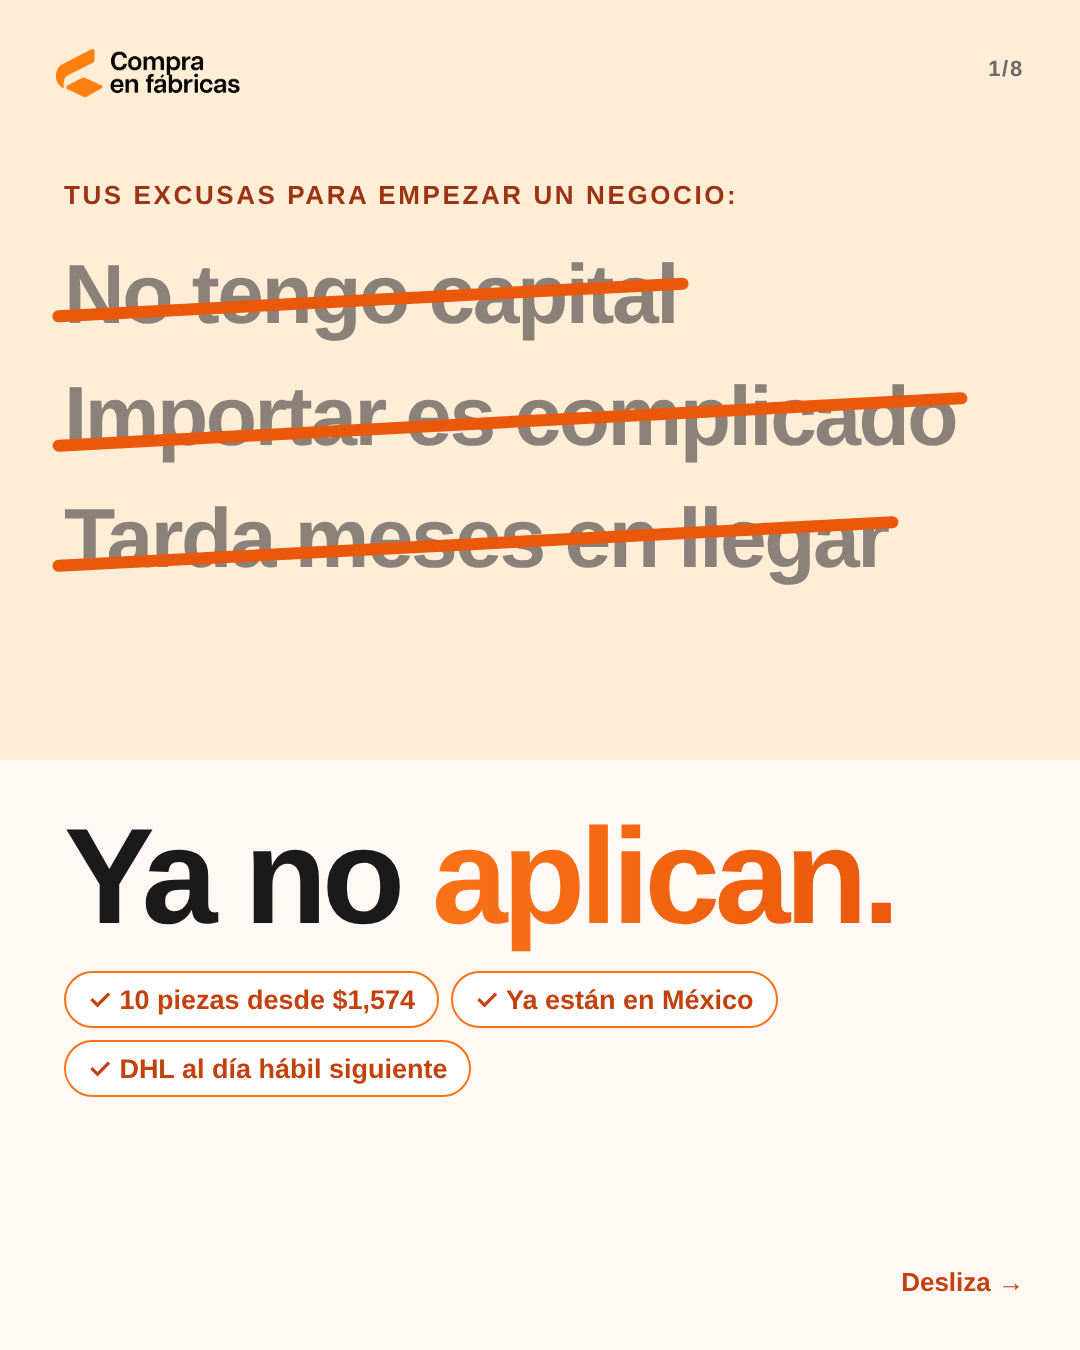
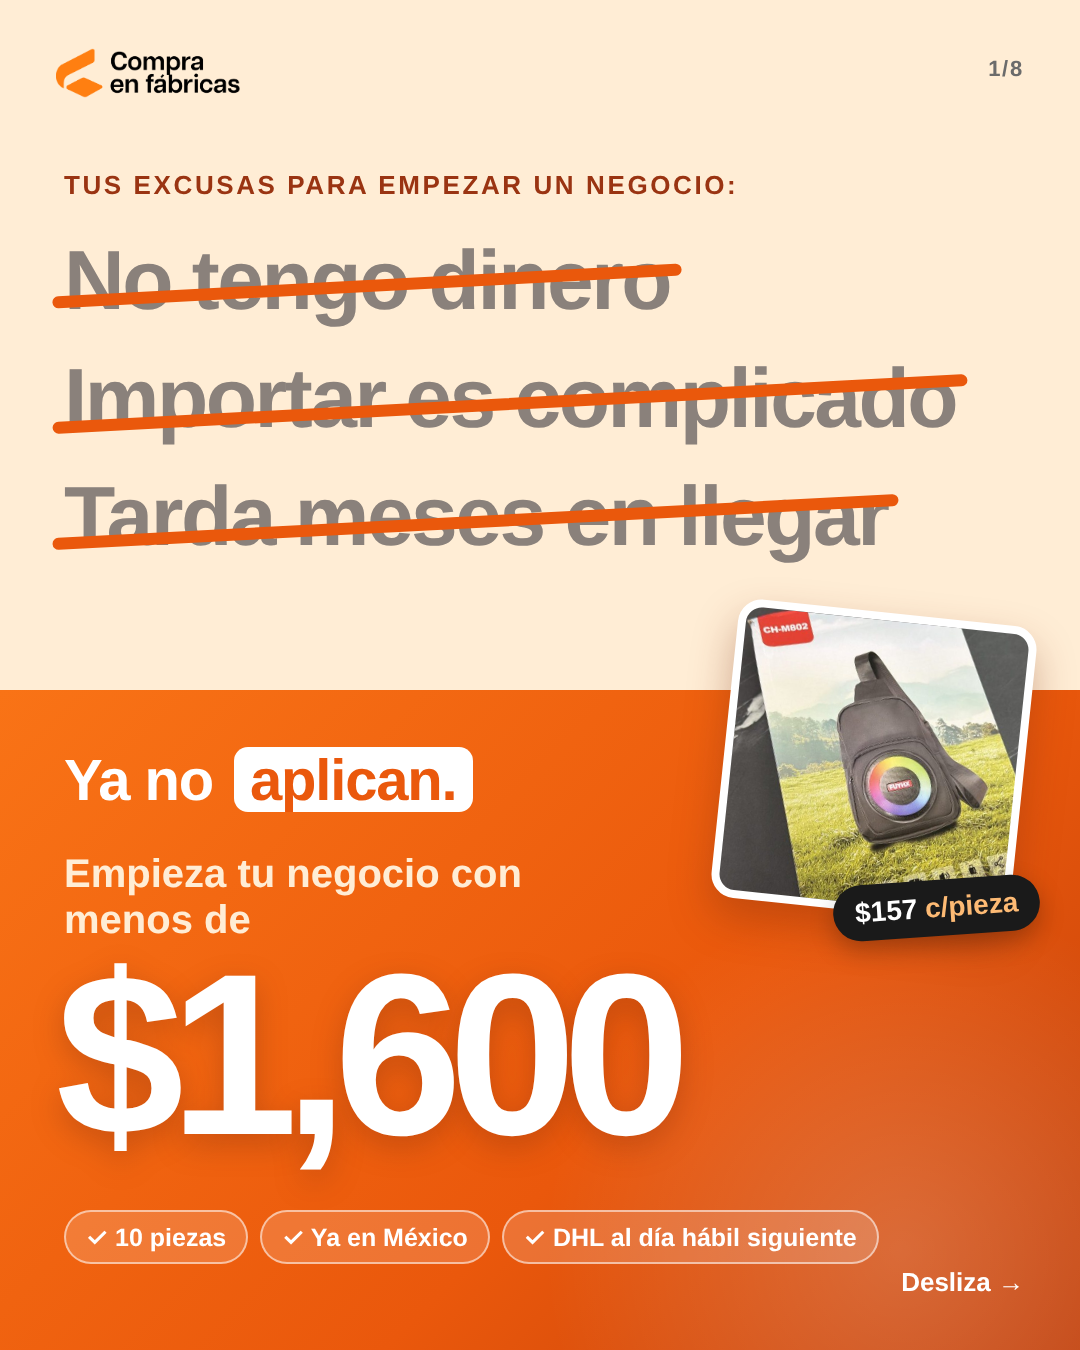
Carrusel: portada B con 'No tengo dinero' y bloque 'Empieza tu negocio con menos de $1,600'
Claude-Session: https://claude.ai/code/session_01CXaftFPXBN4xcjAX2hR1xo

diff --git a/contenido/creativos-cajas-disponibles/_K-01e-portada-excusas-primero.html b/contenido/creativos-cajas-disponibles/_K-01e-portada-excusas-primero.html
@@ -23,15 +23,33 @@ html,body{width:1080px;height:1350px}
 .swipe{position:absolute;right:56px;bottom:52px;font-size:26px;font-weight:700;color:var(--n7)}
 .eyebrow{font-size:24px;font-weight:700;letter-spacing:.08em;color:var(--n7);text-transform:uppercase}
 
-.top{position:absolute;left:0;right:0;top:0;height:760px;background:var(--durazno)}
+.top{position:absolute;left:0;right:0;top:0;height:690px;background:var(--durazno)}
 .lg{z-index:2}.num{z-index:2}
-.lab{position:absolute;left:64px;top:180px;font-size:26px;font-weight:700;letter-spacing:.1em;color:var(--n9)}
-.xs{position:absolute;left:64px;right:64px;top:250px;display:flex;flex-direction:column;gap:34px}
+.lab{position:absolute;left:64px;top:170px;font-size:26px;font-weight:700;letter-spacing:.1em;color:var(--n9)}
+.xs{position:absolute;left:64px;right:64px;top:236px;display:flex;flex-direction:column;gap:30px}
 .x{align-self:flex-start;font-size:84px;font-weight:900;letter-spacing:-.03em;color:#8A817B;position:relative;line-height:1.05}
 .x::after{content:"";position:absolute;left:-12px;right:-12px;top:50%;height:12px;border-radius:6px;background:var(--n6);transform:rotate(-3deg)}
-.bot{position:absolute;left:64px;right:64px;top:810px}
-.bot h1{font-size:136px;letter-spacing:-.04em;line-height:.98}
-.oks{display:flex;flex-wrap:wrap;gap:12px;margin-top:28px}
-.oks span{background:#fff;border:2px solid var(--n);color:var(--n7);font-weight:700;font-size:27px;border-radius:999px;padding:10px 22px}
-</style></head><body><div class='num'>1/8</div><img class='lg' src='fotos/logo-horizontal.png'><div class='swipe'>Desliza →</div><div class='top'></div><div class='lab'>TUS EXCUSAS PARA EMPEZAR UN NEGOCIO:</div><div class='xs'><div class='x'>No tengo capital</div><div class='x'>Importar es complicado</div><div class='x'>Tarda meses en llegar</div></div>
-<div class='bot'><h1>Ya no <span class='grad'>aplican.</span></h1><div class='oks'><span>✓ 10 piezas desde $1,574</span><span>✓ Ya están en México</span><span>✓ DHL al día hábil siguiente</span></div></div></body></html>
+.band{position:absolute;left:0;right:0;top:690px;bottom:0;background:linear-gradient(135deg,#F97316 0%,#EA580C 60%,#C2410C 100%);overflow:hidden}
+.band::before{content:"";position:absolute;right:-180px;bottom:-260px;width:720px;height:720px;border-radius:50%;
+background:radial-gradient(circle,rgba(255,255,255,.18),rgba(255,255,255,0) 70%)}
+.ya{position:absolute;left:64px;top:56px;font-size:58px;font-weight:900;color:#fff;letter-spacing:-.02em}
+.ya span{background:#fff;color:var(--n6);border-radius:14px;padding:0 16px;margin-left:6px}
+.em{position:absolute;left:64px;top:160px;font-size:40px;font-weight:700;color:#FFEDD5;line-height:1.15;width:560px}
+.big{position:absolute;left:56px;top:250px;font-size:230px;font-weight:900;letter-spacing:-.06em;color:#fff;line-height:1;
+text-shadow:0 10px 30px rgba(124,45,18,.35)}
+.big small{font-size:60px;letter-spacing:-.02em;margin-left:10px;vertical-align:40%;font-weight:900}
+.facts{position:absolute;left:64px;top:520px;display:flex;gap:12px}
+.facts span{background:rgba(255,255,255,.16);border:2px solid rgba(255,255,255,.55);color:#fff;font-weight:700;font-size:25px;border-radius:999px;padding:10px 20px}
+.pic{position:absolute;right:56px;top:612px;width:300px;height:300px;border-radius:24px;border:8px solid #fff;
+background-size:cover;background-position:center;transform:rotate(6deg);box-shadow:0 20px 40px rgba(124,45,18,.35);z-index:3}
+.st{position:absolute;right:40px;top:880px;background:#1A1A1A;color:#fff;border-radius:999px;padding:12px 22px;font-size:28px;font-weight:900;
+transform:rotate(-4deg);z-index:4;box-shadow:0 10px 24px rgba(0,0,0,.25)}
+.st b{color:#FDBA74}
+.swipe{color:#fff!important;z-index:5}
+</style></head><body><div class='num'>1/8</div><img class='lg' src='fotos/logo-horizontal.png'><div class='swipe'>Desliza →</div><div class='top'></div><div class='lab'>TUS EXCUSAS PARA EMPEZAR UN NEGOCIO:</div><div class='xs'><div class='x'>No tengo dinero</div><div class='x'>Importar es complicado</div><div class='x'>Tarda meses en llegar</div></div>
+<div class='band'><div class='ya'>Ya no <span>aplican.</span></div>
+<div class='em'>Empieza tu negocio con menos de</div>
+<div class='big'>$1,600</div>
+<div class='facts'><span>✓ 10 piezas</span><span>✓ Ya en México</span><span>✓ DHL al día hábil siguiente</span></div></div>
+<div class='photo pic' style="background-image:url('fotos/CF-022.jpg')"></div>
+<div class='st'>$157 <b>c/pieza</b></div></body></html>

diff --git a/contenido/creativos-cajas-disponibles/_K-01f-portada-marcador.html b/contenido/creativos-cajas-disponibles/_K-01f-portada-marcador.html
@@ -31,4 +31,4 @@ html,body{width:1080px;height:1350px}
 .sc{position:absolute;left:-14px;right:-14px;top:22%;width:calc(100% + 28px);height:60%}
 .tag{margin:14px 0 0 120px;background:var(--grad);color:#fff;font-weight:900;font-size:34px;padding:12px 24px;border-radius:12px;
 box-shadow:0 8px 24px rgba(234,88,12,.28)}
-</style></head><body><div class='num'>1/8</div><img class='lg' src='fotos/logo-horizontal.png'><div class='swipe'>Desliza →</div><div class='b'><h1>Ya no tienes <span class='grad'>excusa</span> para empezar tu negocio.</h1></div><div class='list'><div class='r'><div class='x'>“No tengo capital”<svg class='sc' viewBox='0 0 600 60' preserveAspectRatio='none'><path d='M6 38 C 120 18, 240 46, 360 26 S 540 30, 594 20' stroke='#EA580C' stroke-width='14' fill='none' stroke-linecap='round'/><path d='M14 26 C 160 44, 300 14, 440 36 S 560 30, 590 34' stroke='#F97316' stroke-width='9' fill='none' stroke-linecap='round' opacity='.85'/></svg></div><div class='tag' style='transform:rotate(-3deg)'>10 piezas desde $1,574</div></div><div class='r'><div class='x'>“Importar es complicado”<svg class='sc' viewBox='0 0 600 60' preserveAspectRatio='none'><path d='M6 38 C 120 18, 240 46, 360 26 S 540 30, 594 20' stroke='#EA580C' stroke-width='14' fill='none' stroke-linecap='round'/><path d='M14 26 C 160 44, 300 14, 440 36 S 560 30, 590 34' stroke='#F97316' stroke-width='9' fill='none' stroke-linecap='round' opacity='.85'/></svg></div><div class='tag' style='transform:rotate(2.5deg)'>Ya están en México</div></div><div class='r'><div class='x'>“Tarda meses en llegar”<svg class='sc' viewBox='0 0 600 60' preserveAspectRatio='none'><path d='M6 38 C 120 18, 240 46, 360 26 S 540 30, 594 20' stroke='#EA580C' stroke-width='14' fill='none' stroke-linecap='round'/><path d='M14 26 C 160 44, 300 14, 440 36 S 560 30, 590 34' stroke='#F97316' stroke-width='9' fill='none' stroke-linecap='round' opacity='.85'/></svg></div><div class='tag' style='transform:rotate(-2deg)'>DHL al día hábil siguiente</div></div></div></body></html>
+</style></head><body><div class='num'>1/8</div><img class='lg' src='fotos/logo-horizontal.png'><div class='swipe'>Desliza →</div><div class='b'><h1>Ya no tienes <span class='grad'>excusa</span> para empezar tu negocio.</h1></div><div class='list'><div class='r'><div class='x'>“No tengo dinero”<svg class='sc' viewBox='0 0 600 60' preserveAspectRatio='none'><path d='M6 38 C 120 18, 240 46, 360 26 S 540 30, 594 20' stroke='#EA580C' stroke-width='14' fill='none' stroke-linecap='round'/><path d='M14 26 C 160 44, 300 14, 440 36 S 560 30, 590 34' stroke='#F97316' stroke-width='9' fill='none' stroke-linecap='round' opacity='.85'/></svg></div><div class='tag' style='transform:rotate(-3deg)'>10 piezas desde $1,574</div></div><div class='r'><div class='x'>“Importar es complicado”<svg class='sc' viewBox='0 0 600 60' preserveAspectRatio='none'><path d='M6 38 C 120 18, 240 46, 360 26 S 540 30, 594 20' stroke='#EA580C' stroke-width='14' fill='none' stroke-linecap='round'/><path d='M14 26 C 160 44, 300 14, 440 36 S 560 30, 590 34' stroke='#F97316' stroke-width='9' fill='none' stroke-linecap='round' opacity='.85'/></svg></div><div class='tag' style='transform:rotate(2.5deg)'>Ya están en México</div></div><div class='r'><div class='x'>“Tarda meses en llegar”<svg class='sc' viewBox='0 0 600 60' preserveAspectRatio='none'><path d='M6 38 C 120 18, 240 46, 360 26 S 540 30, 594 20' stroke='#EA580C' stroke-width='14' fill='none' stroke-linecap='round'/><path d='M14 26 C 160 44, 300 14, 440 36 S 560 30, 590 34' stroke='#F97316' stroke-width='9' fill='none' stroke-linecap='round' opacity='.85'/></svg></div><div class='tag' style='transform:rotate(-2deg)'>DHL al día hábil siguiente</div></div></div></body></html>

diff --git a/contenido/creativos-cajas-disponibles/_K-01d-portada-minimal.html b/contenido/creativos-cajas-disponibles/_K-01d-portada-minimal.html
@@ -29,4 +29,4 @@ html,body{width:1080px;height:1350px}
 .x{display:inline-block;font-size:76px;font-weight:700;color:#A8A29E;letter-spacing:-.02em;position:relative;line-height:1.05}
 .x::after{content:"";position:absolute;left:-10px;right:-10px;top:52%;height:10px;border-radius:6px;background:var(--grad);transform:rotate(-2deg)}
 .ok{font-size:40px;font-weight:900;color:var(--n7);margin-top:14px}
-</style></head><body><div class='num'>1/8</div><img class='lg' src='fotos/logo-horizontal.png'><div class='swipe'>Desliza →</div><div class='b'><h1>Ya no tienes <span class='grad'>excusa</span> para empezar tu negocio.</h1></div><div class='list'><div class='r'><div class='x'>No tengo capital</div><div class='ok'>✓ 10 piezas desde $1,574</div></div><div class='r'><div class='x'>Importar es complicado</div><div class='ok'>✓ Ya están en México</div></div><div class='r'><div class='x'>Tarda meses en llegar</div><div class='ok'>✓ DHL al día hábil siguiente</div></div></div></body></html>
+</style></head><body><div class='num'>1/8</div><img class='lg' src='fotos/logo-horizontal.png'><div class='swipe'>Desliza →</div><div class='b'><h1>Ya no tienes <span class='grad'>excusa</span> para empezar tu negocio.</h1></div><div class='list'><div class='r'><div class='x'>No tengo dinero</div><div class='ok'>✓ 10 piezas desde $1,574</div></div><div class='r'><div class='x'>Importar es complicado</div><div class='ok'>✓ Ya están en México</div></div><div class='r'><div class='x'>Tarda meses en llegar</div><div class='ok'>✓ DHL al día hábil siguiente</div></div></div></body></html>

diff --git a/contenido/creativos-cajas-disponibles/carrusel.py b/contenido/creativos-cajas-disponibles/carrusel.py
@@ -110,7 +110,7 @@ border-radius:32px;box-shadow:0 16px 40px rgba(26,26,26,.10);display:flex;flex-d
 
 # Portada "excusas tachadas": 3 propuestas de diseño (menos texto que el chat)
 EXC = [
-    ("No tengo capital", "10 piezas desde $1,574"),
+    ("No tengo dinero", "10 piezas desde $1,574"),
     ("Importar es complicado", "Ya están en México"),
     ("Tarda meses en llegar", "DHL al día hábil siguiente"),
 ]
@@ -129,22 +129,41 @@ def exc_minimal():
     return slide(1, body, extra)
 
 def exc_primero():
+    # Arriba las excusas tachadas; abajo un bloque naranja con el remate y el precio de entrada
     xs = "".join(f"<div class='x'>{a}</div>" for a, _ in EXC)
-    oks = "".join(f"<span>✓ {b}</span>" for _, b in EXC)
+    mochila = DATA[0]
     extra = """
-.top{position:absolute;left:0;right:0;top:0;height:760px;background:var(--durazno)}
+.top{position:absolute;left:0;right:0;top:0;height:690px;background:var(--durazno)}
 .lg{z-index:2}.num{z-index:2}
-.lab{position:absolute;left:64px;top:180px;font-size:26px;font-weight:700;letter-spacing:.1em;color:var(--n9)}
-.xs{position:absolute;left:64px;right:64px;top:250px;display:flex;flex-direction:column;gap:34px}
+.lab{position:absolute;left:64px;top:170px;font-size:26px;font-weight:700;letter-spacing:.1em;color:var(--n9)}
+.xs{position:absolute;left:64px;right:64px;top:236px;display:flex;flex-direction:column;gap:30px}
 .x{align-self:flex-start;font-size:84px;font-weight:900;letter-spacing:-.03em;color:#8A817B;position:relative;line-height:1.05}
 .x::after{content:"";position:absolute;left:-12px;right:-12px;top:50%;height:12px;border-radius:6px;background:var(--n6);transform:rotate(-3deg)}
-.bot{position:absolute;left:64px;right:64px;top:810px}
-.bot h1{font-size:136px;letter-spacing:-.04em;line-height:.98}
-.oks{display:flex;flex-wrap:wrap;gap:12px;margin-top:28px}
-.oks span{background:#fff;border:2px solid var(--n);color:var(--n7);font-weight:700;font-size:27px;border-radius:999px;padding:10px 22px}
+.band{position:absolute;left:0;right:0;top:690px;bottom:0;background:linear-gradient(135deg,#F97316 0%,#EA580C 60%,#C2410C 100%);overflow:hidden}
+.band::before{content:"";position:absolute;right:-180px;bottom:-260px;width:720px;height:720px;border-radius:50%;
+background:radial-gradient(circle,rgba(255,255,255,.18),rgba(255,255,255,0) 70%)}
+.ya{position:absolute;left:64px;top:56px;font-size:58px;font-weight:900;color:#fff;letter-spacing:-.02em}
+.ya span{background:#fff;color:var(--n6);border-radius:14px;padding:0 16px;margin-left:6px}
+.em{position:absolute;left:64px;top:160px;font-size:40px;font-weight:700;color:#FFEDD5;line-height:1.15;width:560px}
+.big{position:absolute;left:56px;top:250px;font-size:230px;font-weight:900;letter-spacing:-.06em;color:#fff;line-height:1;
+text-shadow:0 10px 30px rgba(124,45,18,.35)}
+.big small{font-size:60px;letter-spacing:-.02em;margin-left:10px;vertical-align:40%;font-weight:900}
+.facts{position:absolute;left:64px;top:520px;display:flex;gap:12px}
+.facts span{background:rgba(255,255,255,.16);border:2px solid rgba(255,255,255,.55);color:#fff;font-weight:700;font-size:25px;border-radius:999px;padding:10px 20px}
+.pic{position:absolute;right:56px;top:612px;width:300px;height:300px;border-radius:24px;border:8px solid #fff;
+background-size:cover;background-position:center;transform:rotate(6deg);box-shadow:0 20px 40px rgba(124,45,18,.35);z-index:3}
+.st{position:absolute;right:40px;top:880px;background:#1A1A1A;color:#fff;border-radius:999px;padding:12px 22px;font-size:28px;font-weight:900;
+transform:rotate(-4deg);z-index:4;box-shadow:0 10px 24px rgba(0,0,0,.25)}
+.st b{color:#FDBA74}
+.swipe{color:#fff!important;z-index:5}
 """
     body = f"""<div class='top'></div><div class='lab'>TUS EXCUSAS PARA EMPEZAR UN NEGOCIO:</div><div class='xs'>{xs}</div>
-<div class='bot'><h1>Ya no <span class='grad'>aplican.</span></h1><div class='oks'>{oks}</div></div>"""
+<div class='band'><div class='ya'>Ya no <span>aplican.</span></div>
+<div class='em'>Empieza tu negocio con menos de</div>
+<div class='big'>$1,600</div>
+<div class='facts'><span>✓ 10 piezas</span><span>✓ Ya en México</span><span>✓ DHL al día hábil siguiente</span></div></div>
+<div class='photo pic' style="background-image:url('{foto(mochila['code'])}')"></div>
+<div class='st'>{mochila['pp']} <b>c/pieza</b></div>"""
     return slide(1, body, extra)
 
 def exc_marcador():

diff --git a/contenido/creativos-cajas-disponibles/README.md b/contenido/creativos-cajas-disponibles/README.md
@@ -32,7 +32,7 @@ Gancho: el presupuesto. Con el mínimo de 10 piezas, el primer inventario cuesta
 |---|---|
 | 1 | Gancho: "Tu primer inventario por menos de $2,000" + 6 productos con precio |
 | 1b / 1c | Portadas alternativas con el hook "Ya no tienes excusa para no empezar tu negocio": 1b con productos, 1c como chat: "Tú" escribe 3 excusas (capital, complicado, tarda meses) y Compra en fábricas contesta cada una con un dato real (portada elegida) |
-| 1d / 1e / 1f | Portadas "excusas tachadas" con menos texto: 1d minimal, 1e "Tus excusas" → "Ya no aplican.", 1f tachón tipo marcador con etiquetas |
+| 1d / 1e / 1f | Portadas "excusas tachadas" con menos texto: 1d minimal, 1e "Tus excusas" → "Ya no aplican. Empieza tu negocio con menos de $1,600" (elegida), 1f tachón tipo marcador con etiquetas |
 | 2 | Así funciona (3 pasos) + aviso de una sola caja por modelo |
 | 3 | Menos de $2,000: mochila, bocina KOS-500, micrófono MK26 |
 | 4 | Menos de $3,500: MK50, MS18, dashcam D8, QY77 |
